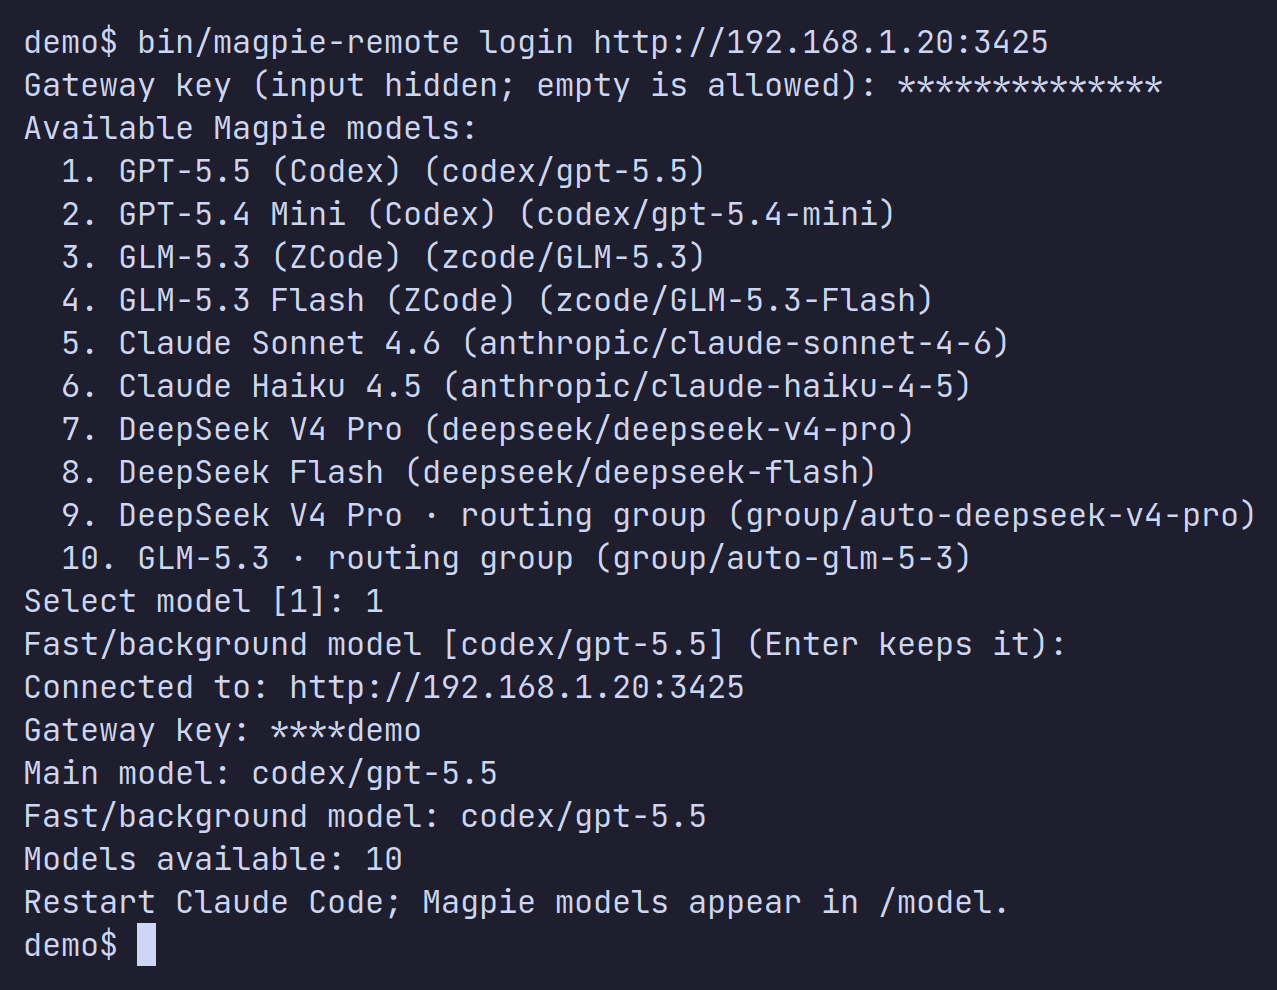
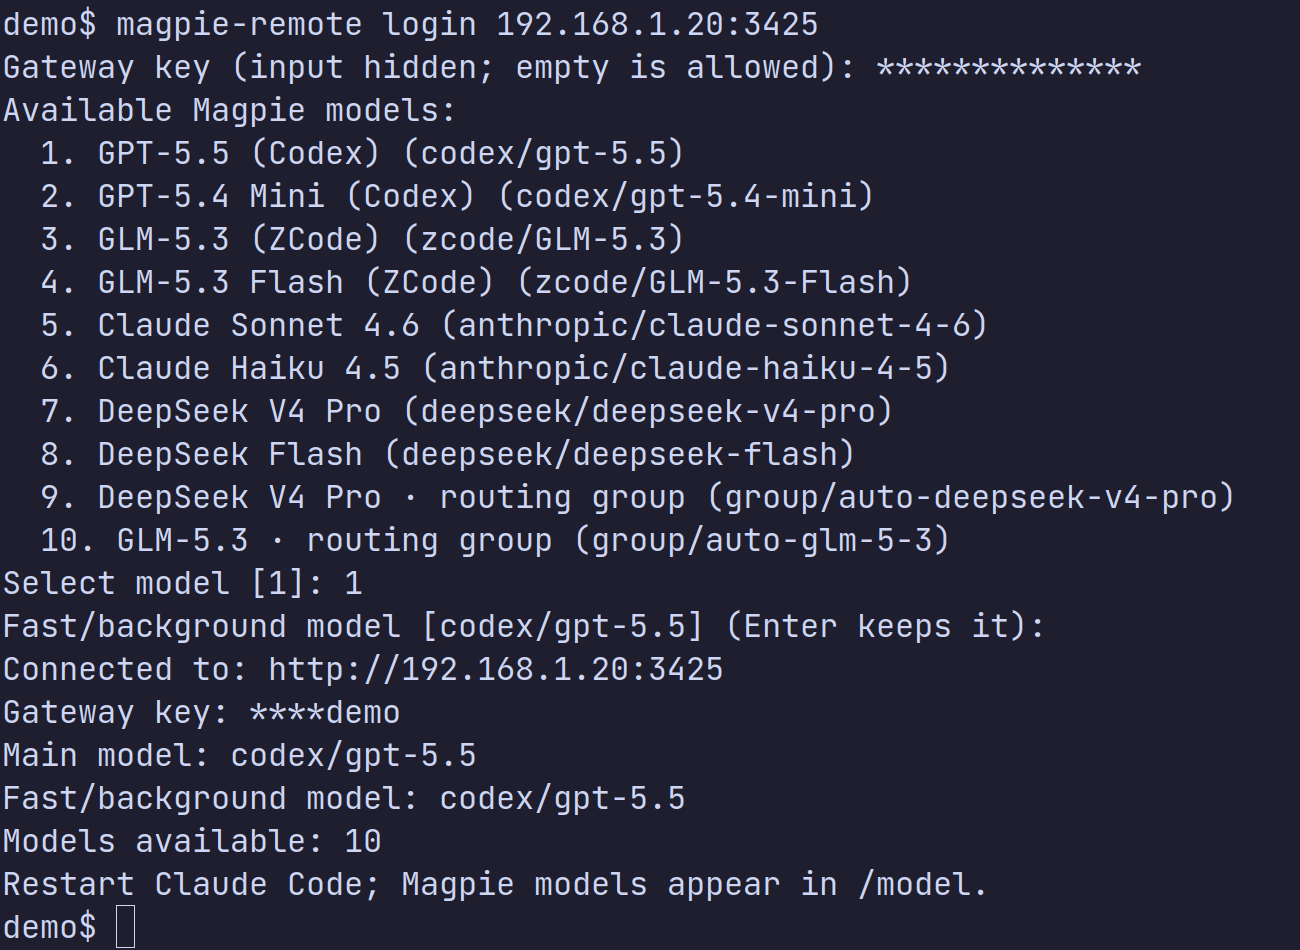
fix: replace built-in Claude model picker options

Changed region(s): [[0.0, 0.0, 0.9773, 1.0]]

diff --git a/README.md b/README.md
@@ -69,7 +69,7 @@ magpie-remote login [address] \
 
 ### 模型列表如何工作
 
-Claude Code 内置的 gateway model discovery 只会收录 ID 中含 `claude` 或 `anthropic` 的模型，因此常会漏掉 `codex/...`、`zcode/...` 或 Magpie 路由组。本插件改用用户级 `modelPicker`，按 catalog 顺序添加 Magpie 模型；带非空 `kind` 的条目（例如图片模型）不会加入。
+Claude Code 内置的 gateway model discovery 只会收录 ID 中含 `claude` 或 `anthropic` 的模型，因此常会漏掉 `codex/...`、`zcode/...` 或 Magpie 路由组。本插件改用用户级 `modelPicker`，按 catalog 顺序列出 Magpie 模型，并设置 `replaceBuiltInOptions: true` 替换内置列表；`/model` 仍会显示 Claude Code 的 `Default` 和当前会话模型项。Claude Code 原生模型选项不会通过 Magpie 网关路由，因此不会保留在列表中。带非空 `kind` 的条目（例如图片模型）不会加入。
 
 若用户已有自己的 `modelPicker`，登录会保留它并提示，不会覆盖。插件拥有的 picker 会在 Claude Code 每次启动时由 `SessionStart` hook 静默刷新；只有已登录且设置中的网关地址仍匹配时才刷新。若插件未安装或未启用，hook 不会运行；重新安装插件后若列表未更新，可重新运行 `magpie-remote login`。
 
